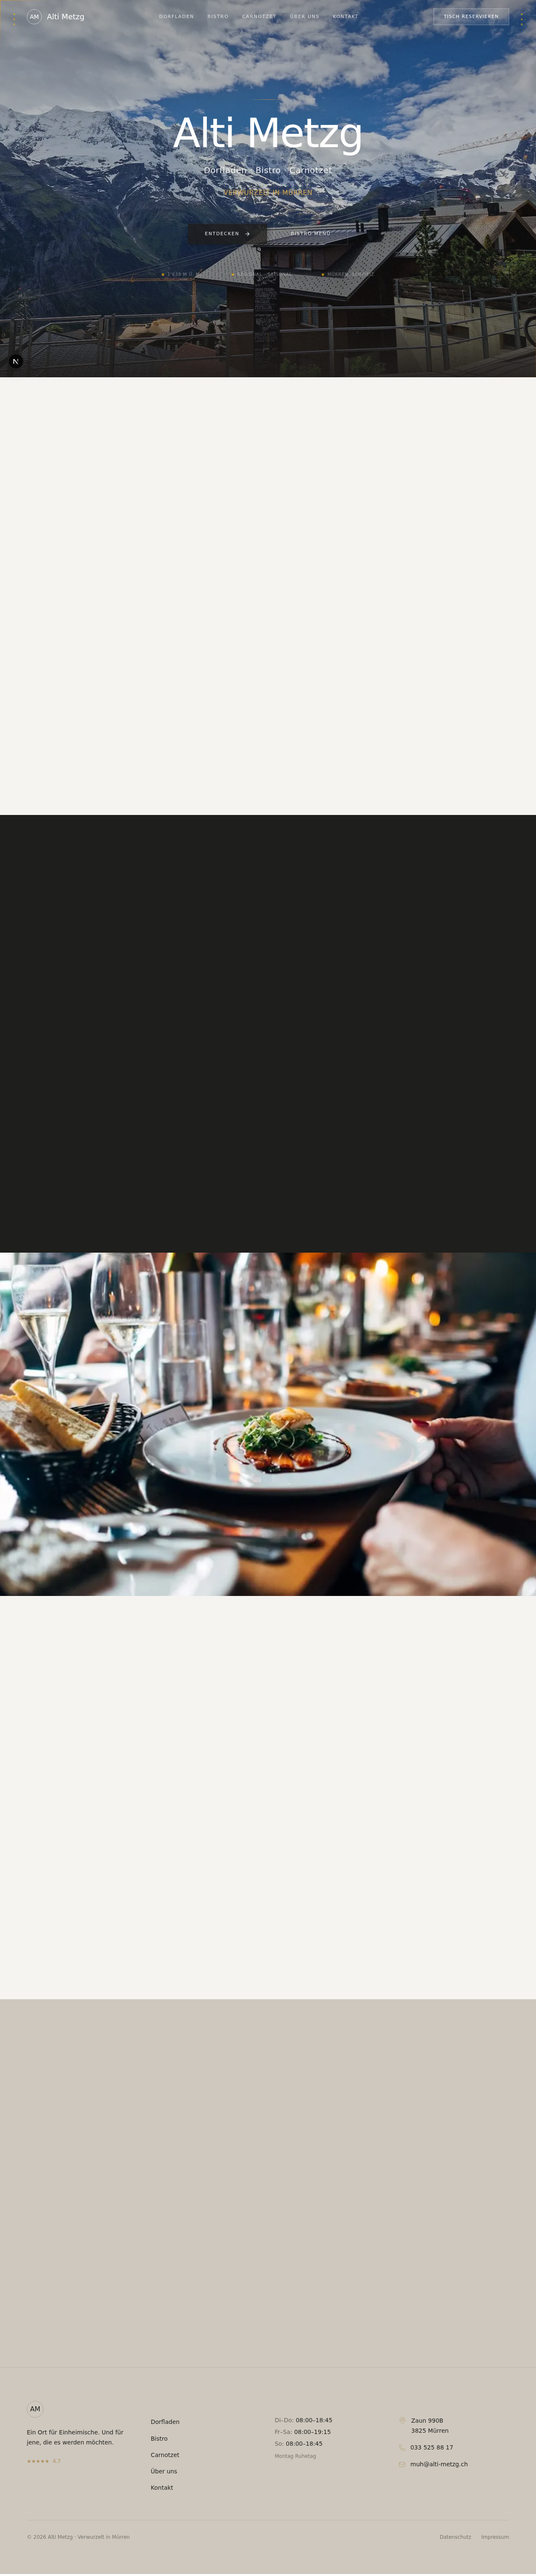
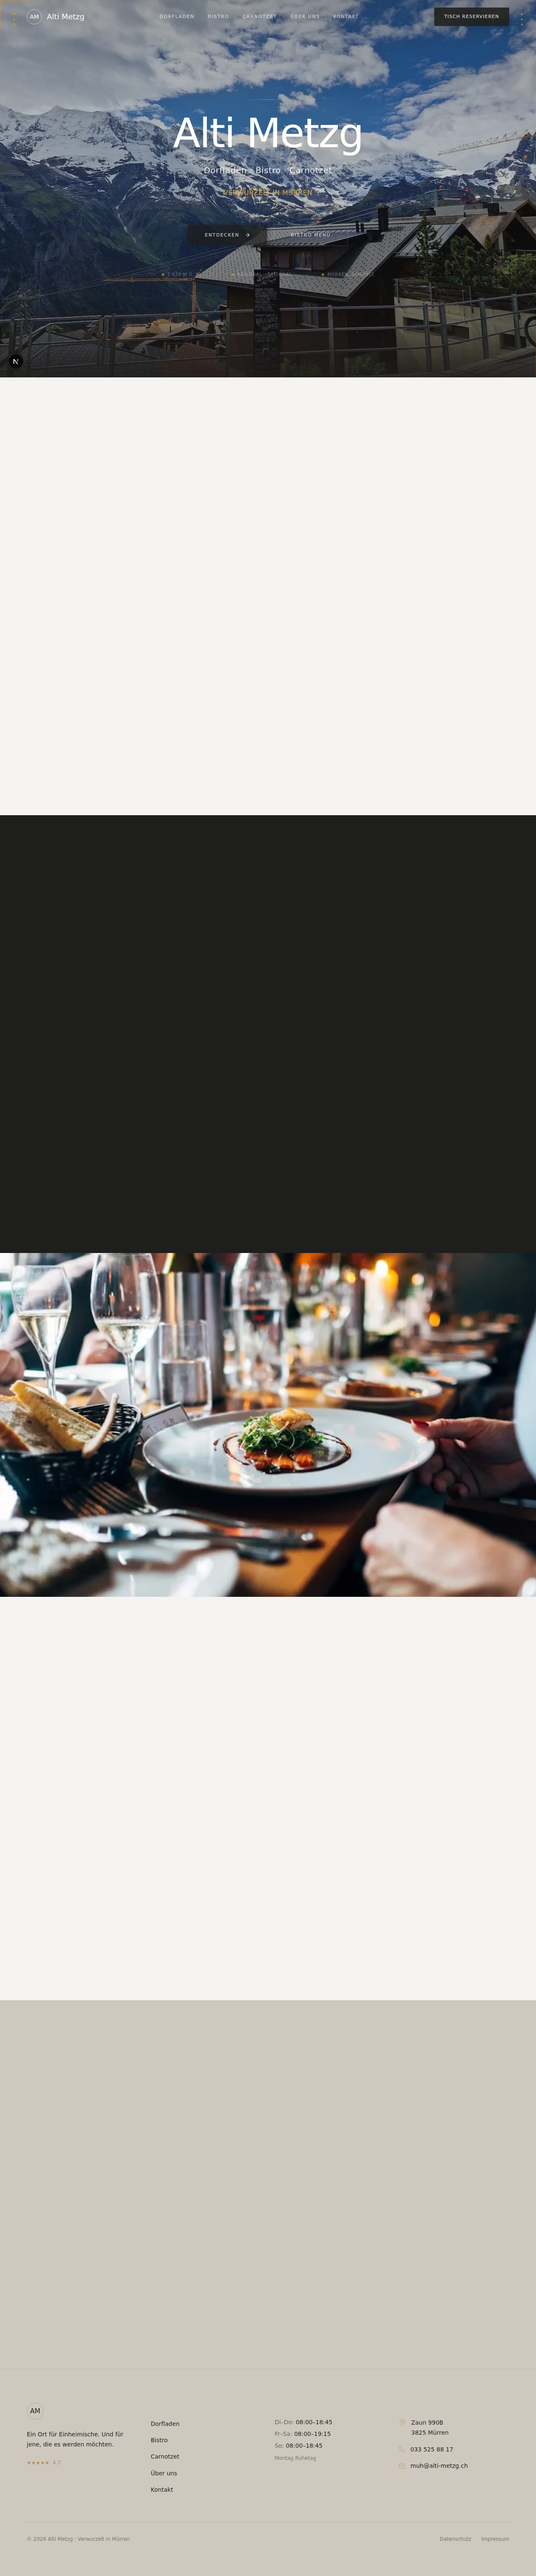
Revert 'Tisch reservieren' button to original style
Restore transparent background on hero while keeping min-height for accessibility

diff --git a/components/Navigation.tsx b/components/Navigation.tsx
@@ -104,14 +104,15 @@ export default function Navigation() {
           <div className="flex items-center gap-4">
             <Link
               href="/kontakt"
-              className={`hidden md:flex items-center justify-center gap-2 px-6 py-3 min-h-[44px] text-[11px] font-medium tracking-[0.1em] uppercase transition-all duration-300 hover:-translate-y-0.5 ${
+              className={`hidden md:flex items-center justify-center gap-2 px-6 py-2.5 min-h-[44px] text-[11px] font-medium tracking-[0.1em] uppercase transition-all duration-300 hover:-translate-y-0.5 ${
                 showBlurredNav
                   ? "bg-charcoal text-warm-white hover:bg-deep-forest"
-                  : "bg-charcoal/90 text-white hover:bg-charcoal shadow-lg"
+                  : "bg-white/10 text-white border border-white/30 hover:bg-white/20"
               }`}
               style={{
-                backgroundColor: showBlurredNav ? "var(--charcoal)" : "rgba(30,30,28,0.9)",
-                color: "var(--warm-white)"
+                backgroundColor: showBlurredNav ? "var(--charcoal)" : "rgba(255,255,255,0.1)",
+                borderColor: !showBlurredNav ? "rgba(255,255,255,0.3)" : undefined,
+                color: showBlurredNav ? "var(--warm-white)" : "white"
               }}
             >
               Tisch reservieren
